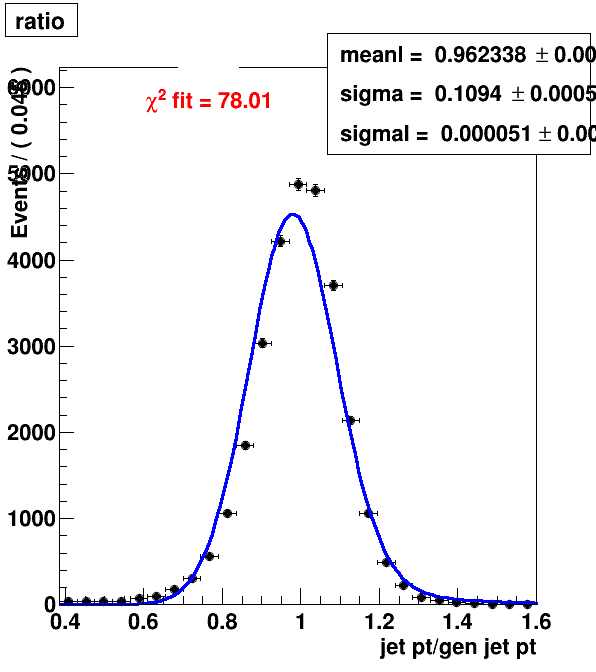
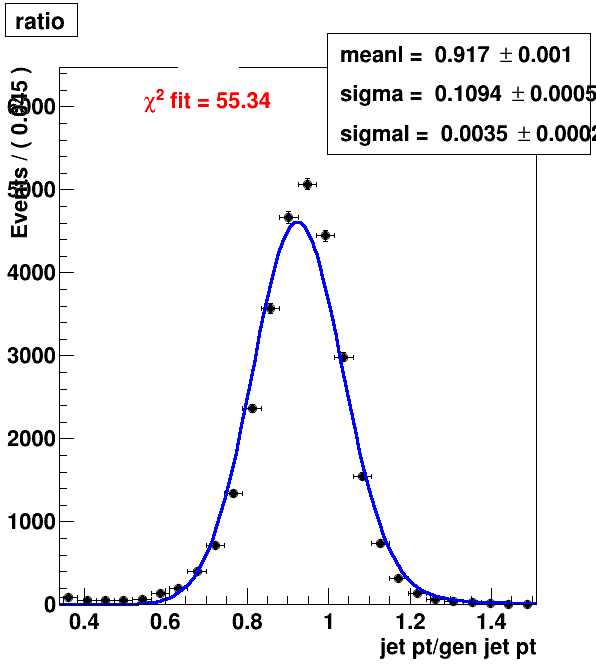
plot 2

diff --git a/jet/jet_scale_resolution.py b/jet/jet_scale_resolution.py
@@ -40,10 +40,11 @@ def main():
     for i in range(0,len(_pt)-1):
         shape  = ROOT.TH1F("shape","shape",50,0.25,2.5)
 
+        reco_bin = "jet_pt>10"
         gen_bin = "genjet_pt>"+str(_pt[i])+" && genjet_pt<"+str(_pt[i+1])
         eta_bin = "abs(genjet_eta)>="+str(_eta[0])+" && abs(genjet_eta)<"+str(_eta[1])
         npv_bin = "npv>="+str(_npv[0])+" && npv<"+str(_npv[1])
-        t_in.Draw("jet_pt/genjet_pt>>shape",gen_bin + "&&" + eta_bin + "&&" + npv_bin,"goff")
+        t_in.Draw("rawjet_pt/genjet_pt>>shape",reco_bin + "&& " + gen_bin + "&&" + eta_bin + "&&" + npv_bin,"goff")
 
         mean, mean_error, sigma, sigma_error = ConvFit(shape ,False,"ratio","jet pt/gen jet pt",folder+"/fit","FIT_pt_"+str(_pt[i])+"_eta_"+args.eta+"_npv_"+args.npv)
 
